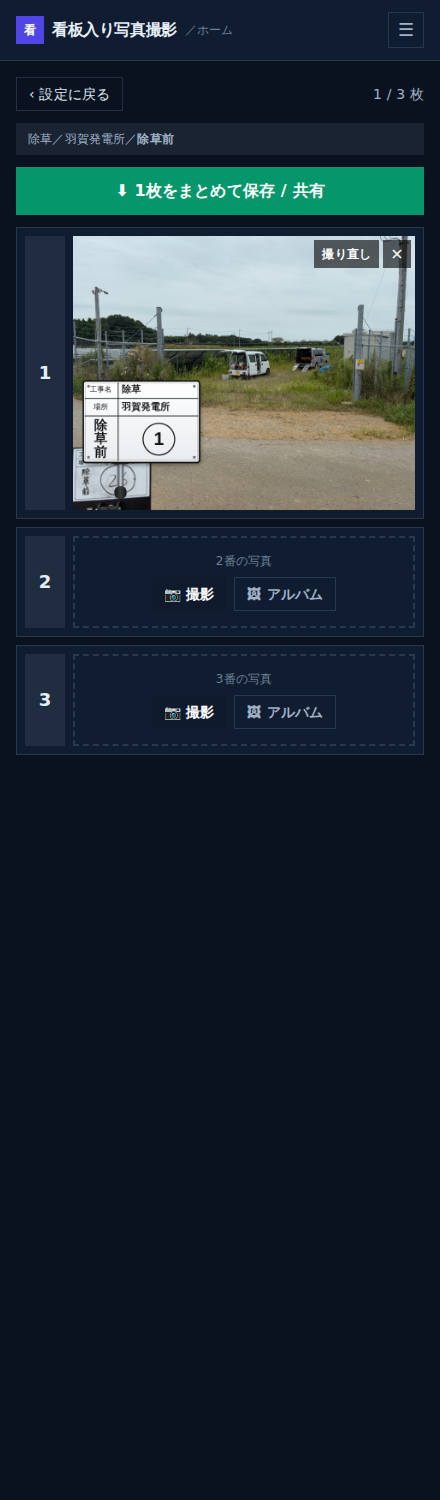
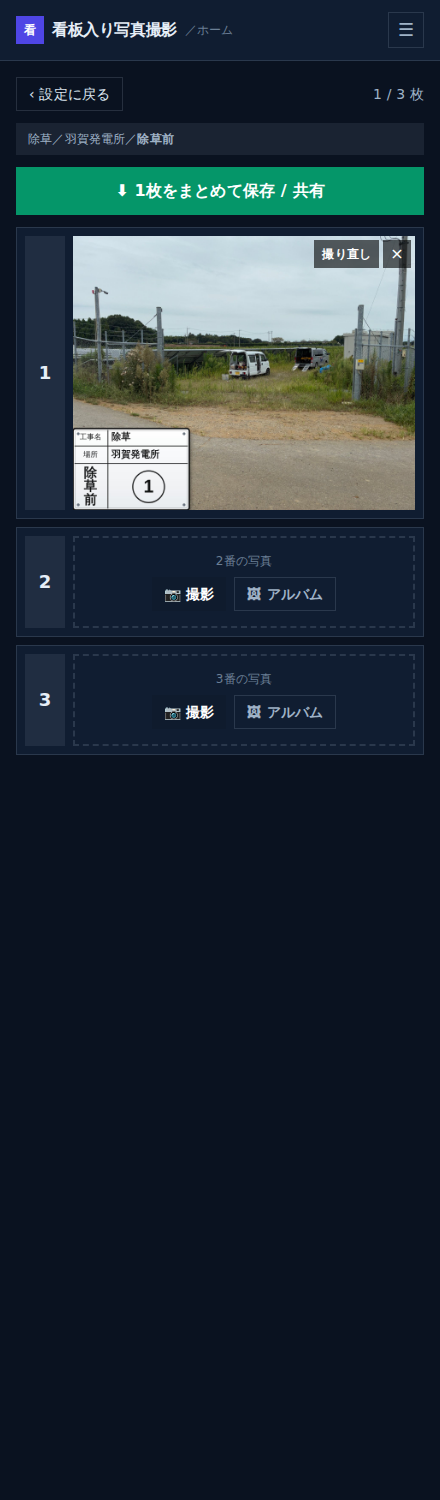
看板から自撮り棒を外し、左下に詰めて配置
- 合成時のスタンド（棒）を非表示にし、看板を写真の左下隅にぴったり配置（余白なし）
- カメラプレビュー・設定プレビューも同じ配置に統一

Claude-Session: https://claude.ai/code/session_011hdr1vrB8mEBoRAZV5QfVC

Changed region(s): [[0.1477, 0.2453, 0.4727, 0.3373]]

diff --git a/components/signphoto/SignPhoto.tsx b/components/signphoto/SignPhoto.tsx
@@ -1,7 +1,7 @@
 'use client';
 
 import { useCallback, useEffect, useRef, useState } from 'react';
-import { drawSignboard, assemblyHeight, SignFields } from '@/lib/signboard';
+import { drawSignboard, signboardHeight, SignFields } from '@/lib/signboard';
 import { dataUrlToFile, shareOrDownload } from '@/lib/ba/share';
 
 type Phase = 'setup' | 'grid';
@@ -10,7 +10,6 @@ const MAX_LIMIT = 100;
 const KIND_PRESETS = ['除草前', '除草後'];
 // 看板：画像に対する幅の割合と余白
 const BOARD_W_RATIO = 0.34;
-const BOARD_MARGIN = 0.03;
 const CAPTURE_MAX_W = 1600;
 
 // 出力比率 5:4（横長）
@@ -30,10 +29,9 @@ function compositeImage(source: CanvasImageSource, sw: number, sh: number, field
   const dw = sw * scale;
   const dh = sh * scale;
   ctx.drawImage(source, (outW - dw) / 2, (outH - dh) / 2, dw, dh);
+  // 左下にぴったり詰める（余白なし・スタンドなし）
   const bw = outW * BOARD_W_RATIO;
-  const m = outW * BOARD_MARGIN;
-  const y = outH - m - assemblyHeight(bw);
-  drawSignboard(ctx, m, y, bw, fields, true);
+  drawSignboard(ctx, 0, outH - signboardHeight(bw), bw, fields, false);
   return canvas.toDataURL('image/jpeg', 0.85);
 }
 
@@ -319,8 +317,7 @@ function CameraModal({
     if (!ctx) return;
     ctx.clearRect(0, 0, cw, ch);
     const bw = cw * BOARD_W_RATIO;
-    const m = cw * BOARD_MARGIN;
-    drawSignboard(ctx, m, ch - m - assemblyHeight(bw), bw, fields, true);
+    drawSignboard(ctx, 0, ch - signboardHeight(bw), bw, fields, false);
   }, [fields.title, fields.place, fields.kind, fields.no]);
 
   useEffect(() => {
@@ -422,12 +419,12 @@ function SignPreview({ fields }: { fields: SignFields }) {
     const W = 320;
     const bw = W * 0.5;
     cv.width = W;
-    cv.height = Math.round(assemblyHeight(bw) + 24);
+    cv.height = Math.round(signboardHeight(bw) + 24);
     const ctx = cv.getContext('2d');
     if (!ctx) return;
     ctx.fillStyle = '#5b6b82';
     ctx.fillRect(0, 0, cv.width, cv.height);
-    drawSignboard(ctx, 12, 12, bw, fields, true);
+    drawSignboard(ctx, 12, 12, bw, fields, false);
   }, [fields.title, fields.place, fields.kind, fields.no]);
   return <canvas ref={ref} className="w-full rounded-lg border border-black/10" />;
 }
